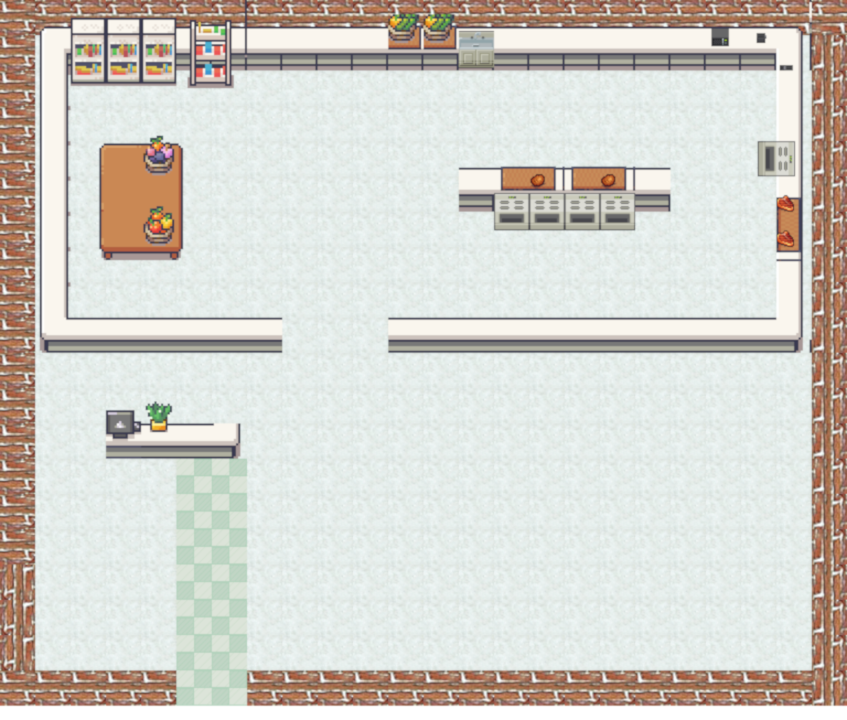
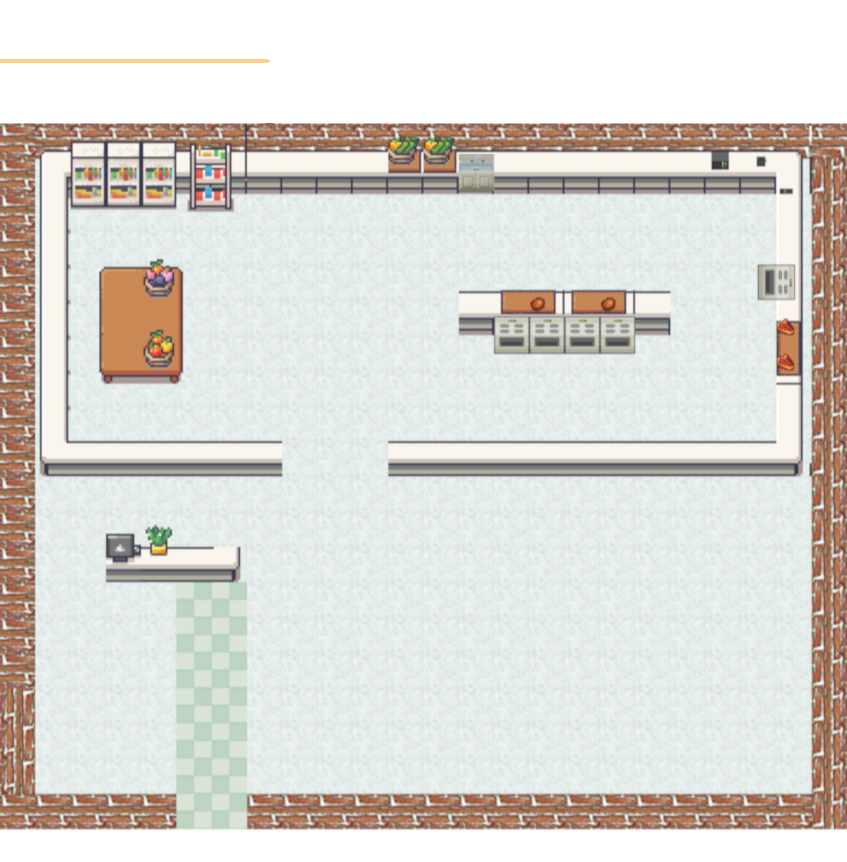
Implemented cooking timer
Cooking now has a timer that the player is frozen for, updated UI, improved code

diff --git a/core/src/com/mygdx/game/Game.java b/core/src/com/mygdx/game/Game.java
@@ -3,6 +3,7 @@ package com.mygdx.game;
 import com.badlogic.gdx.ApplicationAdapter;
 import com.badlogic.gdx.Gdx;
 import com.badlogic.gdx.Input;
+import com.badlogic.gdx.graphics.Color;
 import com.badlogic.gdx.graphics.OrthographicCamera;
 import com.badlogic.gdx.graphics.Texture;
 import com.badlogic.gdx.graphics.g2d.BitmapFont;
@@ -28,7 +29,10 @@ public class Game extends ApplicationAdapter {
     private List<Entity> entities;
     private static Sprite backgroundSprite;
     BitmapFont inventoryDisplay, timer;
+    static float deltaTime = 0.0f;
+    float startInteractc1 = -5, startInteractc2 = -5;
     long startTime;
+    String inventoryUIString;
 
     @Override
     public void create() {
@@ -73,17 +77,17 @@ public class Game extends ApplicationAdapter {
                 new Rectangle(72, 384, 35, 55),
                 1, 0);
 
-        wall1 = new Entity(new Rectangle(36,350,248,36));
+        wall1 = new Entity(new Rectangle(36, 350, 248, 36));
 
-        wall2 = new Entity(new Rectangle(380,350,470,36));
+        wall2 = new Entity(new Rectangle(380, 350, 470, 36));
 
-        wall3 = new Entity(new Rectangle(36,386,36,220));
+        wall3 = new Entity(new Rectangle(36, 386, 36, 220));
 
-        wall4 = new Entity(new Rectangle(768,386,36,220));
+        wall4 = new Entity(new Rectangle(768, 386, 36, 220));
 
-        tableCollider = new Entity(new Rectangle(110,454,69,98));
+        tableCollider = new Entity(new Rectangle(110, 454, 69, 98));
 
-        tableInv = new Station(new Rectangle(146,490, 10,10),
+        tableInv = new Station(new Rectangle(146, 490, 10, 10),
                 5, new Stack<String>());
 
         // MUST ADD ENTITIES TO THIS LIST IN ORDER TO ENABLE INTERACTION/COLLISIONS
@@ -91,6 +95,7 @@ public class Game extends ApplicationAdapter {
                 chopping, serve, prep, burgerStorage, lettuceStorage, bunStorage, trash, tableInv);
 
         inventoryDisplay = new BitmapFont();
+        inventoryDisplay.getData().markupEnabled = true;
         inventoryDisplay.getRegion().getTexture().setFilter(Texture.TextureFilter.Linear,
                 Texture.TextureFilter.Linear);
 
@@ -102,15 +107,70 @@ public class Game extends ApplicationAdapter {
 
         Texture background = new Texture(Gdx.files.internal("PiazzaPanicMap.png"));
         backgroundSprite = new Sprite(background);
-        backgroundSprite.setPosition(0,-13);
+        backgroundSprite.setPosition(0, -33);
 
     }
 
     @Override
     public void render() {
 
+        // Updates and displays correct information on the UI at all times
+        if ((startInteractc1 + 5 - deltaTime) < 0
+                && (startInteractc2 + 5 - deltaTime) < 0) {
+
+            inventoryUIString = ("Chef 1: " + chef1.inventory.toString()
+                    + " " + (4 - chef1.inventory.size()) + "/4" + "\n"
+                    + "Chef 1 is not using a cooking station" +
+
+                    "\n\nChef 2: " + chef2.inventory.toString() +
+                    " " + (4 - chef2.inventory.size()) + "/4" + "\n"
+                    + "Chef 2 is not using a cooking station" +
+
+                    "\nTable contains: " + tableInv.stationInv.toString() + " " +
+                    (4 - tableInv.stationInv.size()) + "/4");
+
+        } else if ((startInteractc1 + 5 - deltaTime > 0)
+                && (startInteractc2 + 5 - deltaTime < 0)) {
+
+            inventoryUIString = ("Chef 1: " + chef1.inventory.toString()
+                    + " " + (4 - chef1.inventory.size()) + "/4" + "\n"
+                    + "Chef 1 cooking: " + (startInteractc1 + 5 - deltaTime) +
+
+                    "\n\nChef 2: " + chef2.inventory.toString() +
+                    " " + (4 - chef2.inventory.size()) + "/4" + "\n"
+                    + "Chef 2 is not using a cooking station" +
+
+                    "\nTable contains: " + tableInv.stationInv.toString() + " " +
+                    (4 - tableInv.stationInv.size()) + "/4");
+
+        } else if ((startInteractc1 + 5 - deltaTime < 0)
+                && (startInteractc2 + 5 - deltaTime > 0)) {
+
+            inventoryUIString = ("Chef 1: " + chef1.inventory.toString()
+                    + " " + (4 - chef1.inventory.size()) + "/4" + "\n"
+                    + "Chef 1 is not using a cooking station" +
+
+                    "\n\nChef 2: " + chef2.inventory.toString() +
+                    " " + (4 - chef2.inventory.size()) + "/4" + "\n"
+                    + "Chef 2 cooking: " + (startInteractc2 + 5 - deltaTime) +
+
+                    "\nTable contains: " + tableInv.stationInv.toString() + " " +
+                    (4 - tableInv.stationInv.size()) + "/4");
+
+        } else {
+            inventoryUIString = ("Chef 1: " + chef1.inventory.toString()
+                    + " " + (4 - chef1.inventory.size()) + "/4" + "\n"
+                    + "Chef 1 cooking: " + (startInteractc1 + 5 - deltaTime) +
+
+                    "\n\nChef 2: " + chef2.inventory.toString() +
+                    " " + (4 - chef2.inventory.size()) + "/4" + "\n"
+                    + "Chef 2 cooking: " + (startInteractc2 + 5 - deltaTime) +
+
+                    "\nTable contains: " + tableInv.stationInv.toString() + " " +
+                    (4 - tableInv.stationInv.size()) + "/4");
+        }
         // Drawing elements on screen
-        ScreenUtils.clear(0, 0, 0.2f, 1);
+        ScreenUtils.clear(0.4255f, 0.4255f, 0.4255f, 1);
         camera.update();
         batch.setProjectionMatrix(camera.combined);
         batch.begin();
@@ -129,23 +189,18 @@ public class Game extends ApplicationAdapter {
         batch.draw(bunStorage.image, bunStorage.body.x, bunStorage.body.y);
         batch.draw(trash.image, trash.body.x, trash.body.y);
 
-        inventoryDisplay.setColor(1.0f, 1.0f, 1.0f, 1.0f);
-        inventoryDisplay.draw(batch,
+        inventoryDisplay.setColor(1, 1, 1, 1);
+        inventoryDisplay.draw(batch, inventoryUIString, 15, 812);
 
-                ("Chef 1: " + chef1.inventory.toString()
-                + " " + (4 - chef1.inventory.size()) + "/4" + "\n\n" +
-
-                "Chef 2: " + chef2.inventory.toString() +
-                " " + (4 - chef2.inventory.size()) + "/4" + "\n\n" +
-
-                "Table contains: " + tableInv.stationInv.toString() + " " +
-                (4 - tableInv.stationInv.size()) + "/4"), 15, 810);
-
-        timer.draw(batch,("Time: "+((System.currentTimeMillis()-startTime)/1000) +
-                "\n\nItems trashed: " + trash.trashScore),705,810);
+        timer.draw(batch, ("Time: " + ((System.currentTimeMillis() - startTime) / 1000) +
+                "\n\nItems trashed: " + trash.trashScore), 705, 810);
         timer.getRegion().getTexture().setFilter(Texture.TextureFilter.Linear,
                 Texture.TextureFilter.Linear);
         batch.end();
+
+        // Internal clock
+        deltaTime += Gdx.graphics.getDeltaTime();
+        System.out.println(deltaTime);
 
 
         // Collision
@@ -154,20 +209,56 @@ public class Game extends ApplicationAdapter {
             chef2.collide(e);
         }
 
-        // Controls
+
+        // Chef 1 controls
         if (Gdx.input.isKeyPressed(Input.Keys.NUM_1)) {
             chef1.movement();
 
             for (Entity e : entities) {
-                chef1.interact(e, e.stationType, e.ingredient);
+                if (Gdx.input.isKeyJustPressed(Input.Keys.E) && distance(chef1, e) < 100
+                        && !(chef1.inventory.isEmpty()) && e.stationType != 0
+                        && (e.stationType == 2 || e.stationType == 3
+                        || e.stationType == 4)) {
+                    chef1.interact(e, e.stationType, e.ingredient);
+                    startInteractc1 = deltaTime;
+                } else if (e.stationType == 0 || e.stationType == 1
+                        || e.stationType == 5) {
+                    chef1.interact(e, e.stationType, e.ingredient);
+                }
             }
 
+        // Chef 2 controls
         } else if (Gdx.input.isKeyPressed(Input.Keys.NUM_2)) {
             chef2.movement();
 
             for (Entity e : entities) {
-                chef2.interact(e, e.stationType, e.ingredient);
+                if (Gdx.input.isKeyJustPressed(Input.Keys.E) && distance(chef2, e) < 100
+                        && !(chef2.inventory.isEmpty()) && e.stationType != 0
+                        && (e.stationType == 2 || e.stationType == 3
+                        || e.stationType == 4)) {
+                    chef2.interact(e, e.stationType, e.ingredient);
+                    startInteractc2 = deltaTime;
+                } else if (e.stationType == 0 || e.stationType == 1
+                        || e.stationType == 5) {
+                    chef2.interact(e, e.stationType, e.ingredient);
+                }
             }
         }
+
+        if (deltaTime > startInteractc1 + 5) {
+            chef1.setSpeed(300);
+        }
+
+        if (deltaTime > startInteractc2 + 5) {
+            chef2.setSpeed(300);
+        }
+
+    }
+
+    private double distance(Chef e1, Entity e2) {
+        // Manhattan distance
+        return (Math.abs(e1.body.x - e2.body.x)
+                + Math.abs(e1.body.y - e2.body.y));
+
     }
 }

diff --git a/core/src/com/mygdx/game/entities/Chef.java b/core/src/com/mygdx/game/entities/Chef.java
@@ -60,6 +60,7 @@ public class Chef extends Entity {
                 && !(this.inventory.isEmpty())
                 && this.inventory.peek().equals("Raw Patty")) {
 
+            this.speed = 0;
             this.inventory.pop();
             this.inventory.push("Cooked Patty");
 
@@ -67,6 +68,8 @@ public class Chef extends Entity {
                 && distance(this, e) < 100
                 && !(this.inventory.isEmpty())
                 && this.inventory.peek().equals("Lettuce")) {
+
+            this.speed = 0;
             this.inventory.pop();
             this.inventory.push("Chopped Lettuce");
 
@@ -76,6 +79,7 @@ public class Chef extends Entity {
                 this.inventory.contains("Chopped Lettuce") &&
                 this.inventory.contains("Burger Bun")) {
 
+            this.speed = 0;
             this.inventory.remove("Cooked Patty");
             this.inventory.remove("Chopped Lettuce");
             this.inventory.remove("Burger Bun");
@@ -110,5 +114,13 @@ public class Chef extends Entity {
         return (Math.abs(e1.body.x - e2.body.x)
                 + Math.abs(e1.body.y - e2.body.y));
 
+    }
+
+    public void setSpeed(float speed) {
+        this.speed = speed;
+    }
+
+    public float getSpeed() {
+        return this.speed;
     }
 }

diff --git a/core/src/com/mygdx/game/Entity.java b/core/src/com/mygdx/game/Entity.java
@@ -6,7 +6,7 @@ import com.badlogic.gdx.math.Rectangle;
 import java.util.ArrayList;
 import java.util.Stack;
 
-public class Entity {
+public class Entity{
     public Stack<String> stationInv;
     public Texture image;
     public Rectangle body;
@@ -15,7 +15,6 @@ public class Entity {
     public float prevy = 0;
     public int stationType = 0;
     public String ingredient;
-
     public int trashScore;
 
     // Constructor for invisible walls (clips)

diff --git a/core/src/com/mygdx/game/entities/Station.java b/core/src/com/mygdx/game/entities/Station.java
@@ -29,6 +29,8 @@ public class Station extends Entity {
         super(image, body, stationType, stationInv);
     }
 
+    // Constructor for a table
+    // stationType = 5 for table
     public Station(Rectangle body, int stationType,
                    Stack<String> stationInv) {
         super(body,stationType,stationInv);
